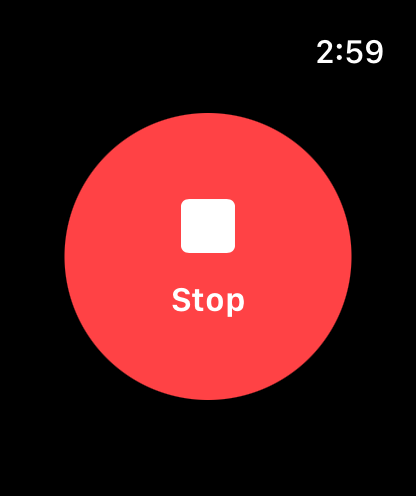
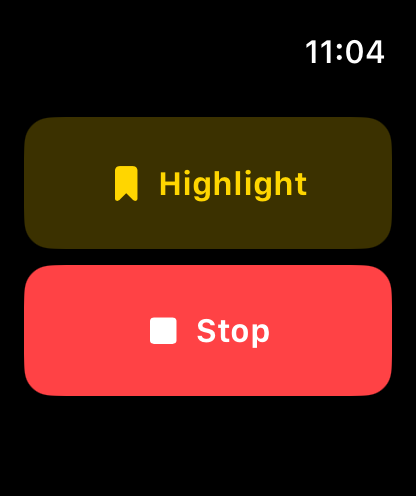
Refresh release screenshots and documentation

diff --git a/README.md b/README.md
@@ -2,7 +2,7 @@
 
 Native iPhone, iPad, and Apple Watch app for controlling multiple action cameras over Bluetooth.
 
-Multicam is built for simultaneous multi-camera capture control. On iPhone and iPad, it can pair remembered cameras, reconnect to available cameras, select which cameras should be controlled, and start/stop recording across selected cameras. The Apple Watch app shows the connected cameras and can start or stop recording across all cameras that are ready.
+Multicam is built for simultaneous multi-camera capture control. On iPhone and iPad, it can pair remembered cameras, reconnect to available cameras, select which cameras should be controlled, switch capture modes, take photos, and start or stop recording across selected cameras. The Apple Watch app shows connected cameras and can start or stop recording and add highlight markers. While recording, a Live Activity provides status plus Stop and Highlight controls on the Lock Screen and Dynamic Island.
 
 [Download Action Multicam Remote on the App Store](https://apps.apple.com/us/app/action-multicam-remote/id6784017391).
 
@@ -14,7 +14,7 @@ Multicam is an independent project and is not affiliated with, endorsed by, or s
 
 ## Status
 
-This is an early hardware-driven project. The app currently targets iOS 17+ and watchOS 10+, using CoreBluetooth, WatchConnectivity, and SwiftUI.
+This is an early hardware-driven project. The app currently targets iOS 17+ and watchOS 10+, using CoreBluetooth, WatchConnectivity, ActivityKit, and SwiftUI.
 
 ## App Store
 
@@ -41,9 +41,12 @@ Release and TestFlight setup notes live in [`docs/testflight.md`](docs/testfligh
 - Select cameras for multicam control.
 - Start all selected cameras.
 - Stop all selected recording cameras.
+- Switch capture modes and take photos on compatible cameras.
+- View available connection, battery, charging, recording, capture mode, camera settings, storage, and remaining-media information.
 - Add a synchronized highlight tag to every compatible recording GoPro and DJI Action 4, Action 5 Pro, or Action 6 camera.
 - Individually start/stop each camera.
-- View connected cameras and start/stop all ready cameras from Apple Watch.
+- View connected cameras and start/stop all ready cameras or add a recording highlight from Apple Watch.
+- Show recording status and elapsed time in a recording-only Live Activity, with Stop and Highlight controls on the Lock Screen and Dynamic Island.
 - Optionally send iPhone GPS, altitude, direction, and speed to connected DJI Action 4/5/6 and Osmo 360 cameras for recording metadata.
 - Keep diagnostic BLE logs collapsed unless needed for hardware debugging.
 
@@ -53,9 +56,8 @@ Release and TestFlight setup notes live in [`docs/testflight.md`](docs/testfligh
 - DJI highlight tagging uses the R SDK QS-button key report and does not return an acknowledgement; verify the markers on non-critical footage before relying on it.
 - GoPro HiLight tagging uses the public Open GoPro BLE command and is available only while the camera is recording.
 - Phone GPS requires When In Use location permission and the iPhone app to remain open and connected while recording. Recorded video files contain precise location telemetry when this option is enabled.
-- DJI mode switching and settings editing are intentionally limited until the BLE command mapping is proven.
+- Capture-mode switching is available for compatible GoPro cameras and DJI Action 4/5/6 and Osmo 360 cameras. DJI Action 4 and Osmo 360 remain untested, Osmo Nano mode is display-only, and capture-setting editing is not exposed.
 - DJI Action 4/5/6 and Osmo 360 require a completed R SDK handshake before control commands are sent; legacy recording fallbacks are retained only for Osmo Nano.
-- DJI recording should be started only when the camera is already in Video mode.
 - DJI Osmo Nano sleep wake may be possible over BLE, but local testing was buggy enough that the app treats sleeping DJI cameras as Not Connected instead of Available.
 - GoPro HERO13 Black is tested directly. Other documented Open GoPro BLE cameras are enabled as compatible but untested.
 - Sleeping GoPros are shown as Not Connected and do not offer Wake. They auto-connect after being powered on.
@@ -105,8 +107,10 @@ xcodebuild \
 
 - `ActionCamRemote/Models`: shared camera, command, capability, and result types.
 - `ActionCamRemote/Bluetooth`: CoreBluetooth scanner plus brand-specific BLE clients.
+- `ActionCamRemote/LiveActivity`: shared ActivityKit state, controller, and App Intents.
 - `ActionCamRemote/Services`: app-level store/coordinator.
 - `ActionCamRemote/UI`: SwiftUI app surfaces.
+- `MulticamLiveActivity`: Lock Screen and Dynamic Island Live Activity extension.
 - `MulticamWatchApp`: Apple Watch remote UI and WatchConnectivity session model.
 - `docs/compatibility.md`: protocol notes, status, and next proof gates.
 
